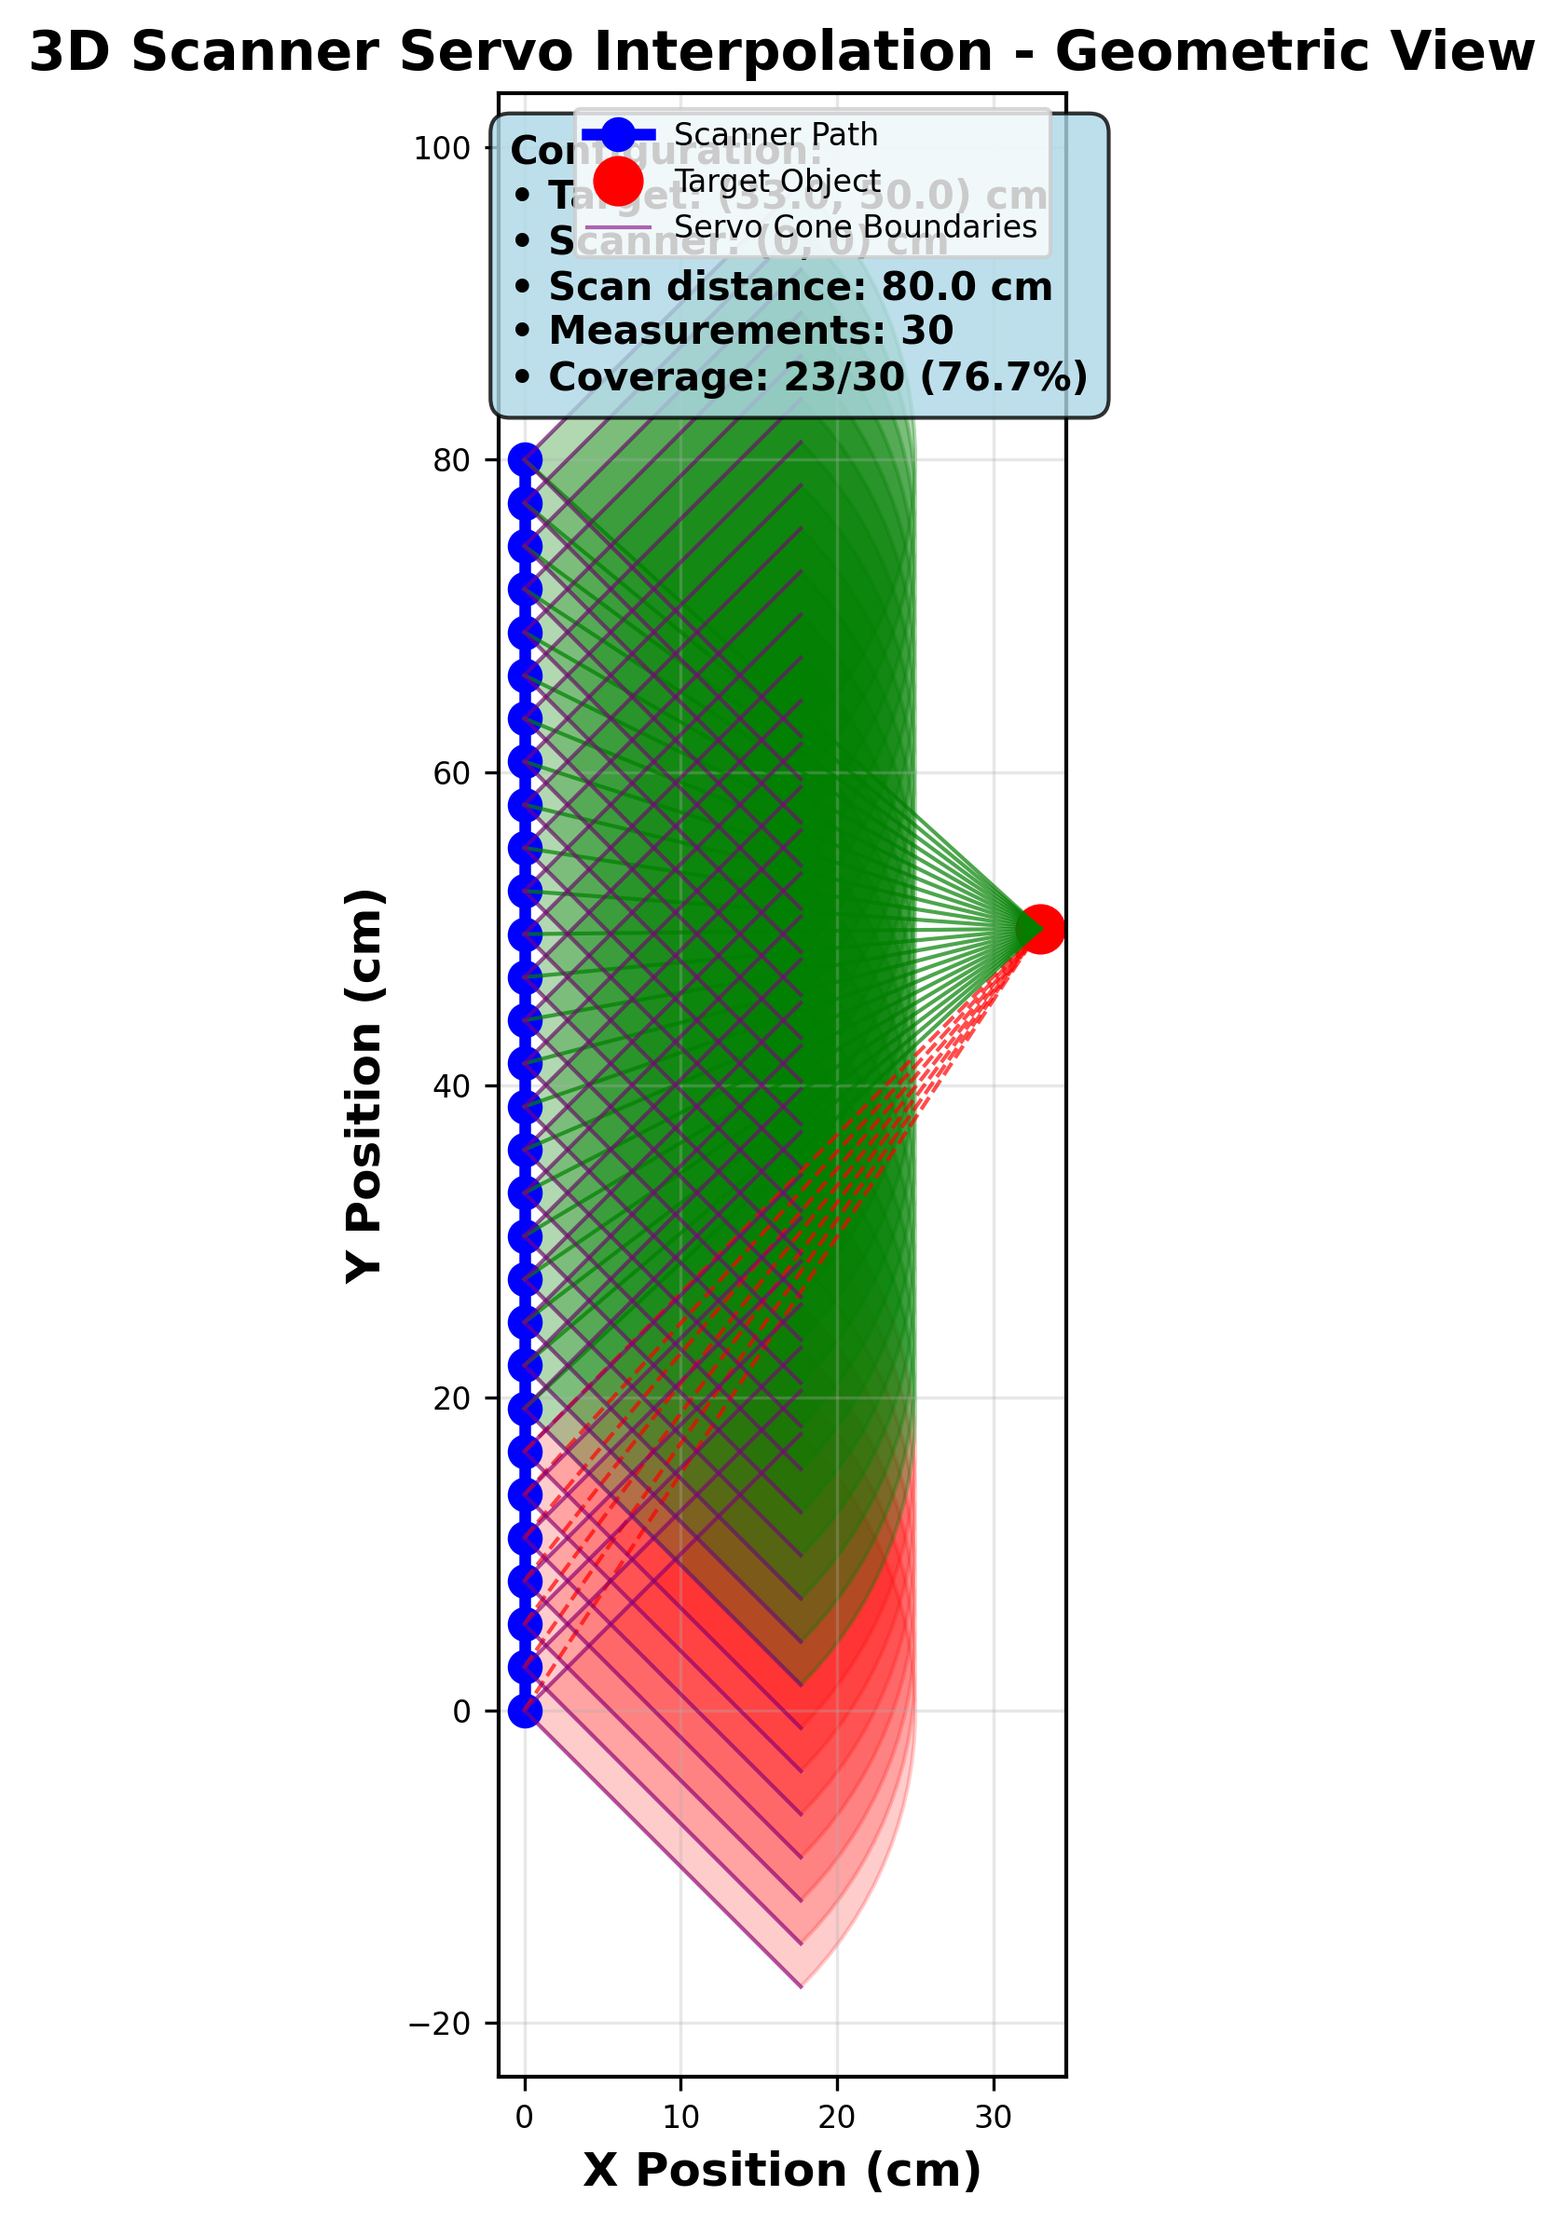
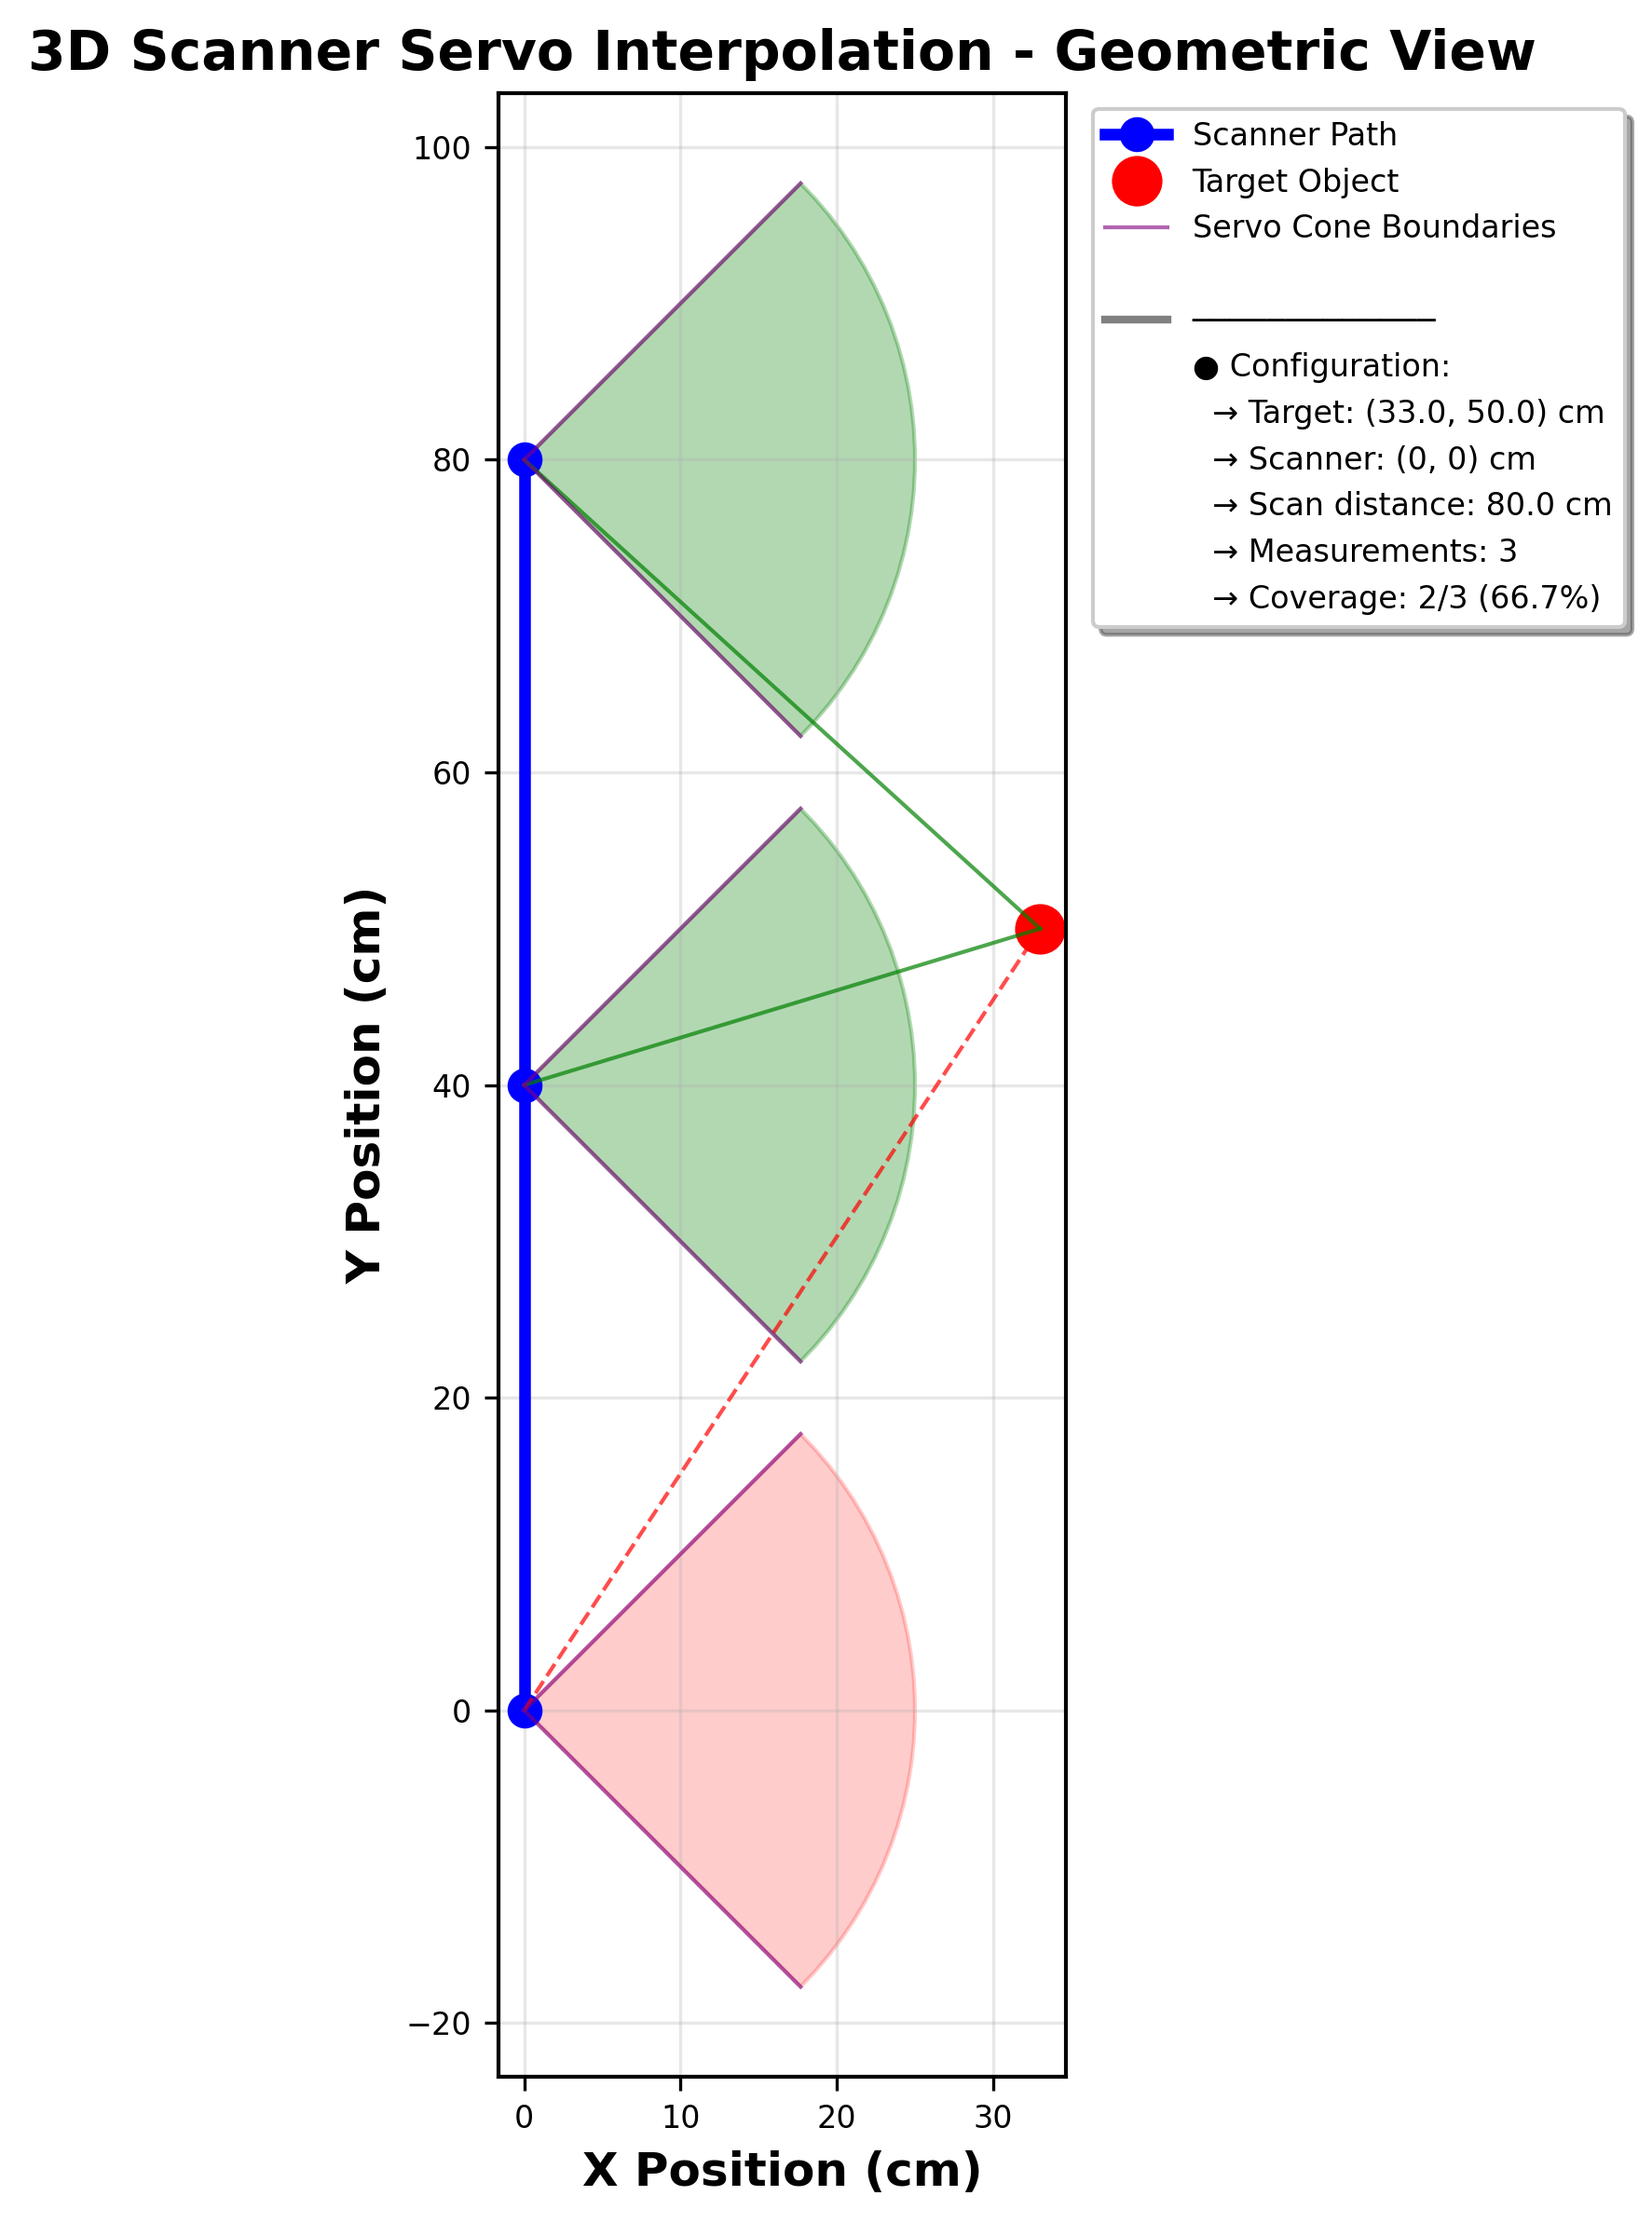
legende optimiert für doku

diff --git a/implementation/ControlScript/Calculator_Angle_Maschine/MathVisualisation/visualizations/servo_interpolation.py b/implementation/ControlScript/Calculator_Angle_Maschine/MathVisualisation/visualizations/servo_interpolation.py
@@ -259,12 +259,11 @@ def save_servo_cone_detail():
 def create_servo_geometry_graph_only():
     """
     Create only the geometric visualization part (without table) from servo interpolation
-    """
-    # Get servo data
+    """    # Get servo data
     servo_data = calculate_servo_interpolation()
     
-    # Create figure with single plot for geometry only
-    fig = plt.figure(figsize=(12, 8))
+    # Create figure with single plot for geometry only - wider to accommodate external legend and info
+    fig = plt.figure(figsize=(16, 8))
     ax = plt.subplot(1, 1, 1)
     
     # Plot scanner path
@@ -322,31 +321,36 @@ def create_servo_geometry_graph_only():
         cone_y = cone_center_y + cone_radius * np.sin(theta)
         cone_x = np.append([cone_center_x], cone_x)
         cone_y = np.append([cone_center_y], cone_y)
-        ax.fill(cone_x, cone_y, color=cone_color, alpha=cone_alpha)
-    
-    # Add coordinate information as text
-    info_text = f"Configuration:\n"
-    info_text += f"• Target: ({config.TARGET_CENTER_X}, {config.TARGET_CENTER_Y}) cm\n"
-    info_text += f"• Scanner: ({config.SCANNER_MODULE_X}, {config.SCANNER_MODULE_Y}) cm\n"
-    info_text += f"• Scan distance: {config.SCAN_DISTANCE} cm\n"
-    info_text += f"• Measurements: {config.NUMBER_OF_MEASUREMENTS}\n"
-    
-    # Count reachable points
+        ax.fill(cone_x, cone_y, color=cone_color, alpha=cone_alpha)    # Count reachable points
     reachable_count = sum(1 for data in servo_data if data['is_reachable'])
     total_count = len(servo_data)
     coverage_percent = (reachable_count / total_count) * 100
-    
-    info_text += f"• Coverage: {reachable_count}/{total_count} ({coverage_percent:.1f}%)"
-    
-    ax.text(0.02, 0.98, info_text, transform=ax.transAxes, fontsize=10,
-            verticalalignment='top', fontweight='bold',
-            bbox=dict(boxstyle="round,pad=0.5", facecolor="lightblue", alpha=0.8))
     
     ax.set_xlabel('X Position (cm)', fontweight='bold', fontsize=12)
     ax.set_ylabel('Y Position (cm)', fontweight='bold', fontsize=12)
     ax.set_title('3D Scanner Servo Interpolation - Geometric View', fontweight='bold', fontsize=14)
     ax.grid(True, alpha=0.3)
-    ax.legend(loc='upper right')
+    
+    # Create legend with configuration data integrated
+    legend_elements = ax.get_legend_handles_labels()
+    handles, labels = legend_elements    # Add configuration information as legend entries with visual separation
+    from matplotlib.lines import Line2D
+    config_handles = [
+        Line2D([0], [0], color='white', linewidth=0, label=''),  # Empty line for spacing
+        Line2D([0], [0], color='gray', linewidth=2, label='─────────────'),  # Separator line
+        Line2D([0], [0], color='white', linewidth=0, label='● Configuration:'),
+        Line2D([0], [0], color='white', linewidth=0, label=f'  → Target: ({config.TARGET_CENTER_X}, {config.TARGET_CENTER_Y}) cm'),
+        Line2D([0], [0], color='white', linewidth=0, label=f'  → Scanner: ({config.SCANNER_MODULE_X}, {config.SCANNER_MODULE_Y}) cm'),
+        Line2D([0], [0], color='white', linewidth=0, label=f'  → Scan distance: {config.SCAN_DISTANCE} cm'),
+        Line2D([0], [0], color='white', linewidth=0, label=f'  → Measurements: {config.NUMBER_OF_MEASUREMENTS}'),
+        Line2D([0], [0], color='white', linewidth=0, label=f'  → Coverage: {reachable_count}/{total_count} ({coverage_percent:.1f}%)')
+    ]
+      # Combine original legend with configuration
+    all_handles = handles + config_handles
+    all_labels = labels + [handle.get_label() for handle in config_handles]
+    
+    ax.legend(all_handles, all_labels, bbox_to_anchor=(1.02, 1), loc='upper left', 
+              frameon=True, fancybox=True, shadow=True)
     ax.set_aspect('equal', adjustable='box')
     
     plt.tight_layout()
